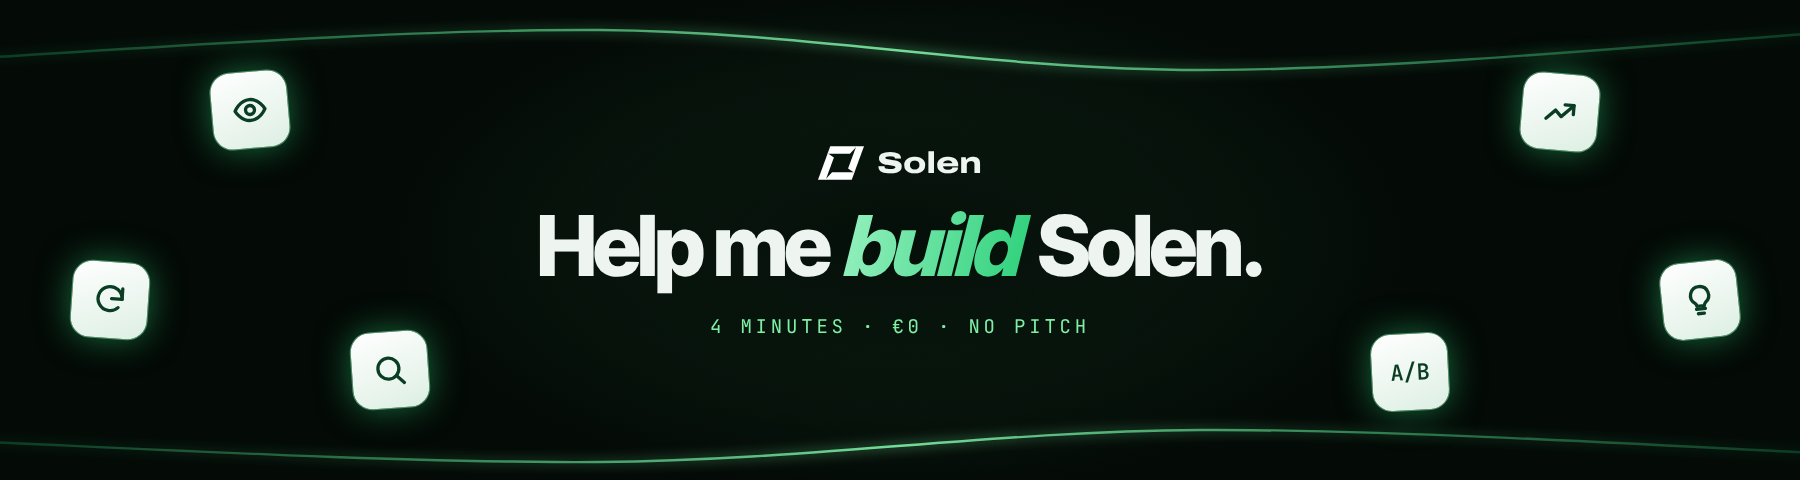
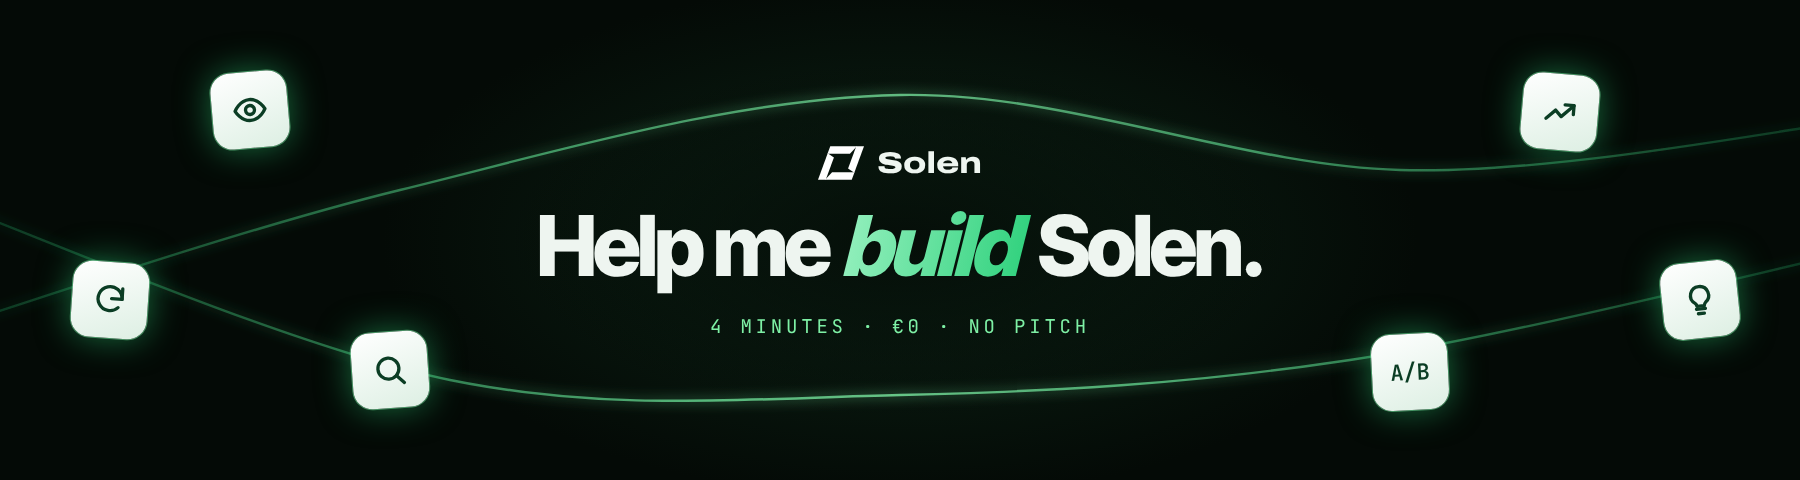
Form visuals: raise the two lines into the image, around the title
Claude-Session: https://claude.ai/code/session_01BHXAVJFnX9CQrySXqS91xj

diff --git a/design/social/form/_src/cover.html b/design/social/form/_src/cover.html
@@ -53,8 +53,8 @@
 <script>
 // Deux courbes douces, comme sur les visuels X, qui ne passent pas sur le texte.
 drawThreads([
-  [[-60,60], [600,30], [1200,70], [1860,30]],
-  [[-60,440], [600,462], [1200,430], [1860,455]],
+  [[-60,330], [400,190], [900,95], [1400,170], [1860,120]],
+  [[-60,200], [450,380], [900,395], [1350,360], [1860,250]],
 ]);
 </script>
 </body>

diff --git a/design/social/form/_src/share.html b/design/social/form/_src/share.html
@@ -53,8 +53,8 @@
 <script>
 // Deux courbes douces, comme sur les visuels X, qui ne passent pas sur le texte.
 drawThreads([
-  [[-60,50], [400,30], [800,70], [1260,30]],
-  [[-60,600], [400,615], [800,585], [1260,610]],
+  [[-60,400], [200,262], [600,150], [1000,240], [1260,190]],
+  [[-60,220], [260,430], [600,472], [960,430], [1260,300]],
 ]);
 </script>
 </body>
